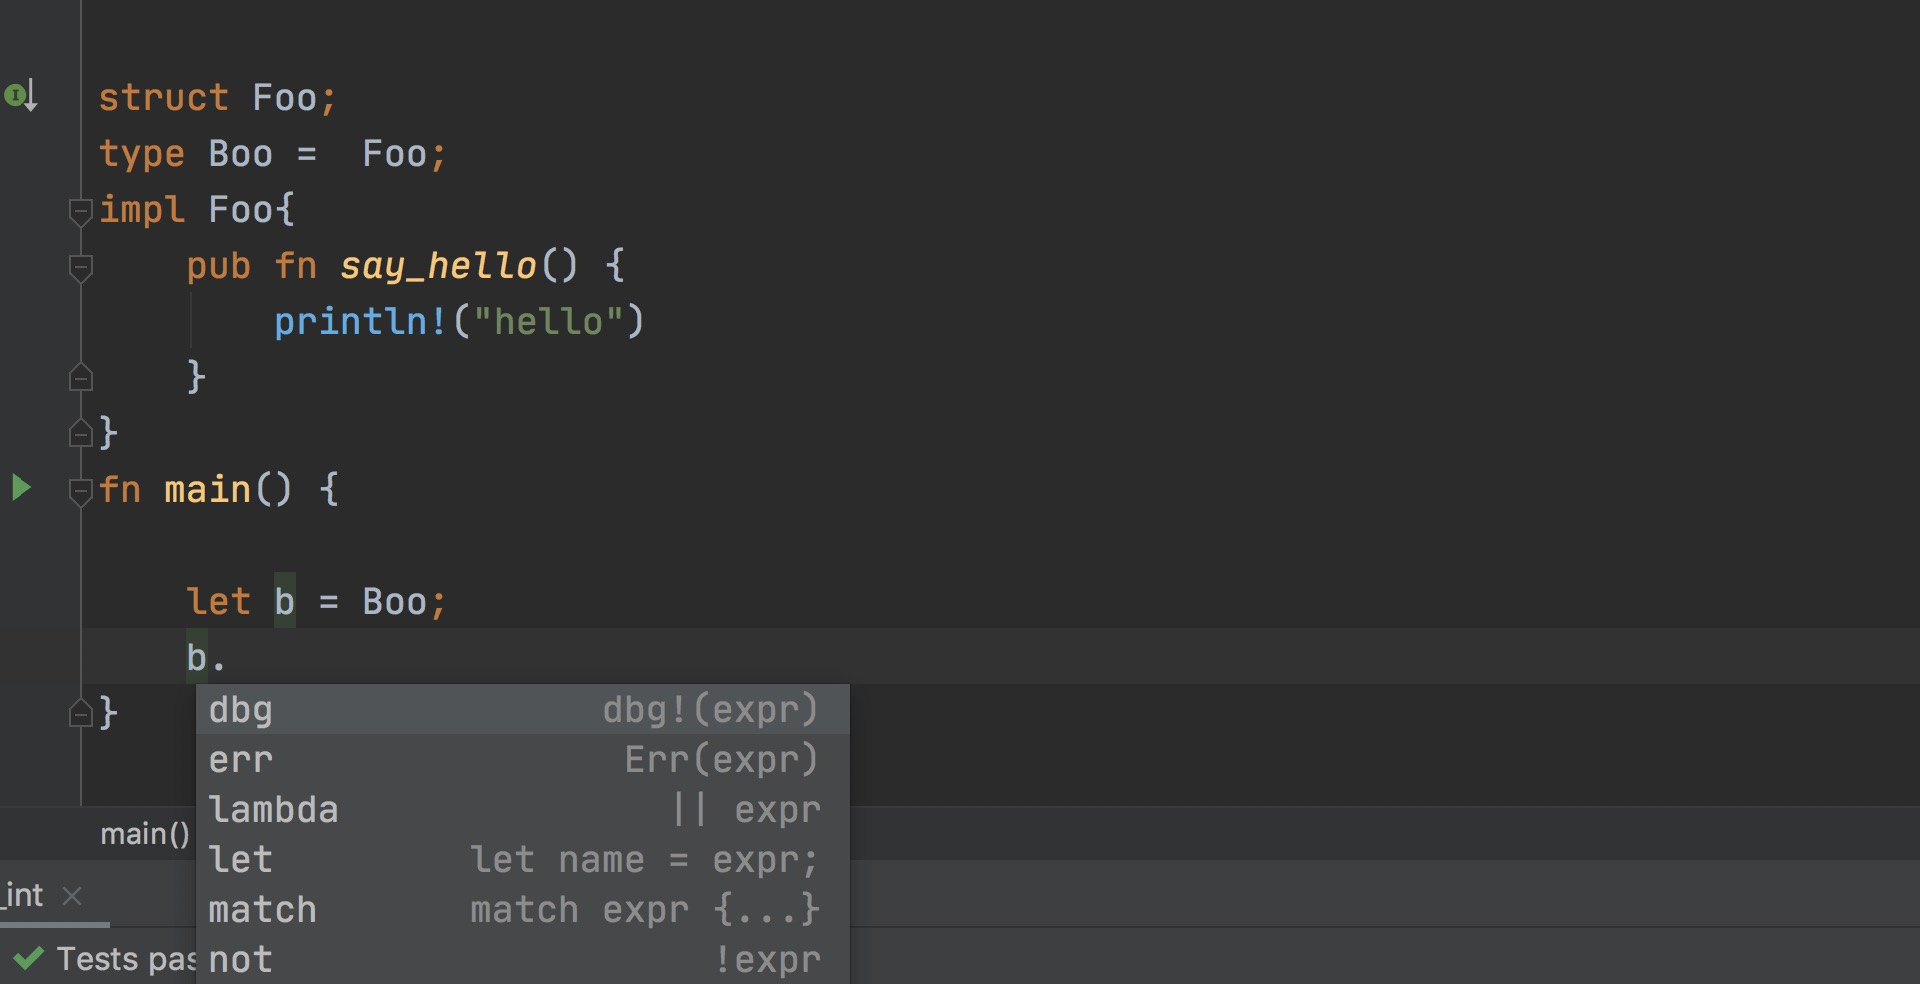
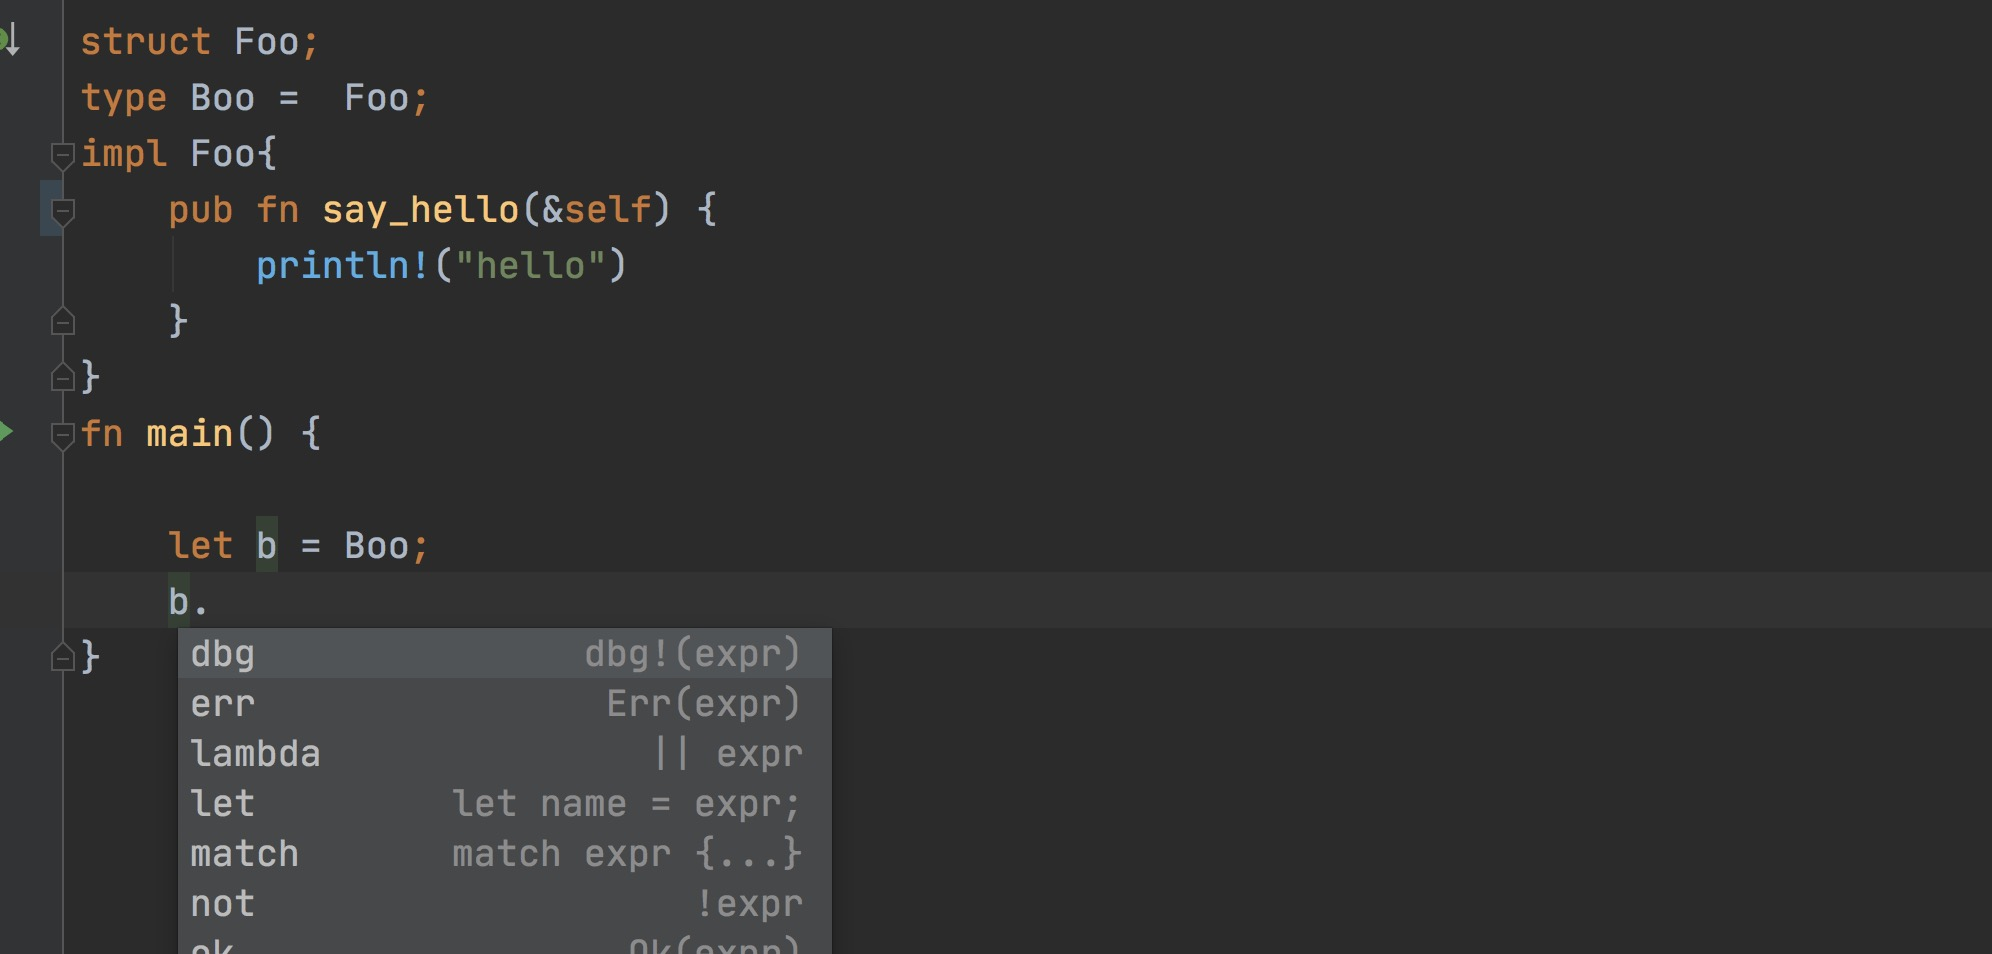
-

diff --git a/common/src/main.rs b/common/src/main.rs
@@ -6,7 +6,7 @@ mod json;
 struct Foo;
 type Boo =  Foo;
 impl Foo{
-    pub fn say_hello() {
+    pub fn say_hello(&self) {
         println!("hello")
     }
 }
